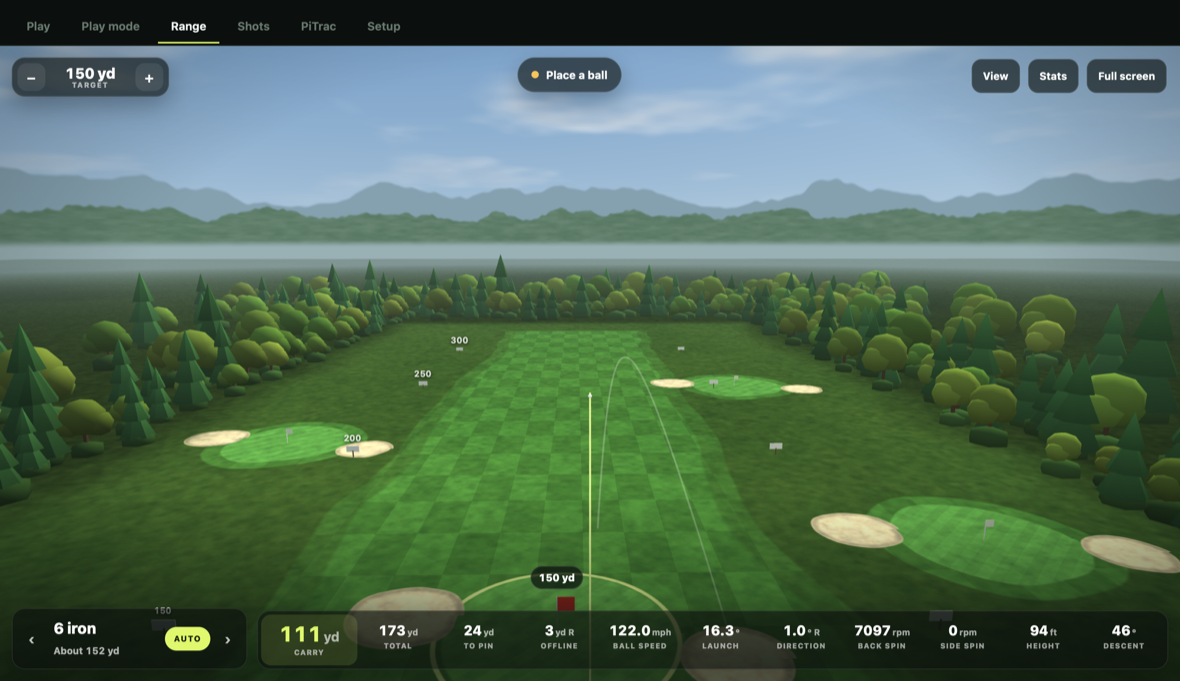
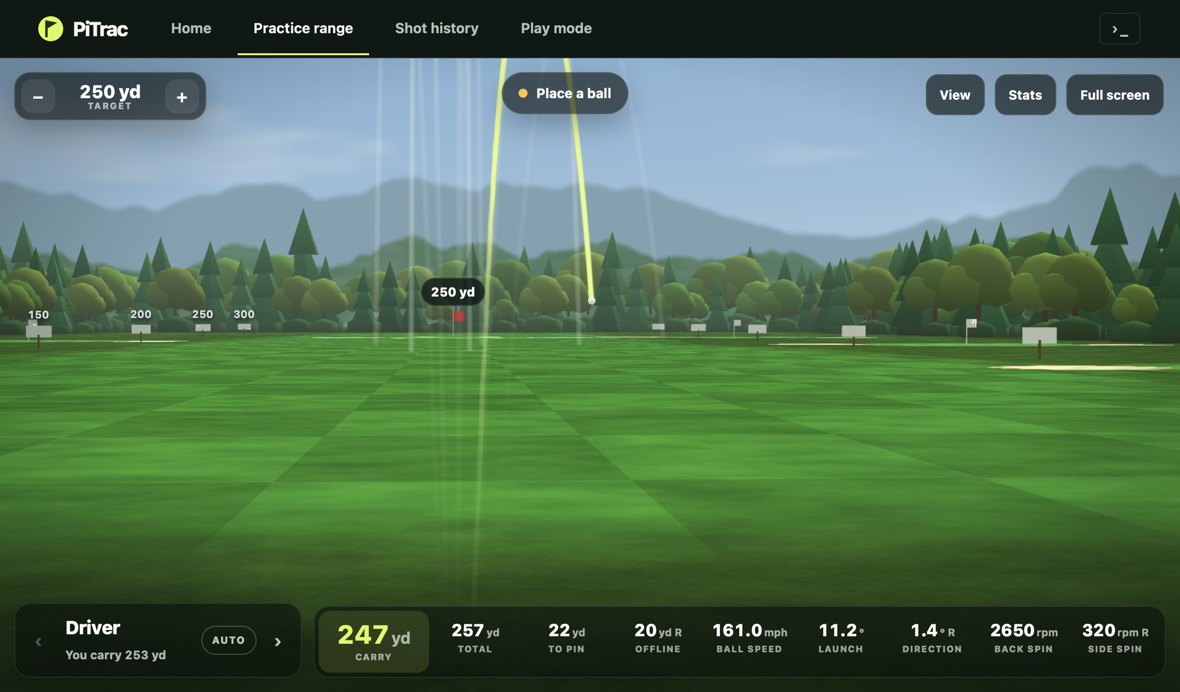
README: set up a stock Raspberry Pi from scratch; refresh screenshots
The Pi section assumed PiTrac was already running. It now goes from a blank
card: writing Raspberry Pi OS (trixie) with Imager, fitting and checking the
cameras (including the upside-down ribbon that stops a camera answering),
building PiTrac at the tested revision with its own build.sh, and installing
Easy-Connect from the release tag's source archive -- plus what to do when
something is not right. The desktop section covers downloads, Update now, and
adding a second computer. Range, shot history and Wi-Fi screenshots are
retaken from the redesigned app.

Step 4 was run verbatim on a fresh Debian 13 arm64 system with a virtual
Wi-Fi radio. That found two installer bugs, fixed here:

- The hotspot check warned that the radio "may not support the setup
  hotspot" exactly when it did: grep -q stopped reading at the first match,
  iw died of SIGPIPE, and pipefail counted that as failure. The Wi-Fi device
  check, which aborts the install, had the same race.
- Without /proc/device-tree/model the shell printed a raw "No such file".

diff --git a/README.md b/README.md
@@ -15,7 +15,7 @@ own application window. It connects the enclosure to your home Wi-Fi, finds it
 automatically, and puts each measured shot on its own range or into GSPro. It also
 includes PiTrac's dashboard, shot history, and a practice range.
 
-A five-step guide walks you through the first setup. If you move the enclosure to another home, you only need to choose the new Wi-Fi network. You do not need to reconfigure PiTrac.
+A short guide walks you through the first setup. If you move the enclosure to another home, you only need to choose the new Wi-Fi network. You do not need to reconfigure PiTrac.
 
 - **Version:** 0.10.6
 - **License:** [MIT](LICENSE)
@@ -38,9 +38,10 @@ A five-step guide walks you through the first setup. If you move the enclosure t
 | **Local Range** | A first-person range with nothing else to buy, open or sign in to. Set a target, and the club is chosen from its distance and how far you hit each one; change it with one key. Every shot shows carry, total, distance to the pin, speed, launch, direction and spin, and the session shows where they finished. Works on macOS and Windows |
 | **OpenGolfSim** | Plays its range and courses on macOS and Windows. It is free and separate: choose **Developer API** as its launch monitor. Each shot shows whether it was played, and where the simulator says it went |
 | **GSPro** | Sends each measured shot to GSPro, which runs on Windows. PiTrac is pointed at Easy-Connect once, when the enclosure is set up, and never again — so a new router, a new address, or a move to another house does not break shot delivery. A **Play mode** page shows which is selected, whether GSPro is answering, and the steps to get it listening |
-| **Setup and system checks** | A five-step guide handles the first setup. The app also checks that the cameras, calibration, software, storage, and other essentials are ready, then explains anything that needs attention |
+| **Setup and system checks** | A short guide handles the first setup. The app also checks that the cameras, calibration, software, storage, and other essentials are ready, then explains anything that needs attention |
 | **Shot history and practice range** | Every shot is saved with the club it was hit with, including shots played through GSPro. Averages build up with or without a simulator. Recent shot images PiTrac has saved are shown separately |
-| **Dashboard and settings** | Includes PiTrac's dashboard and tools to back up, restore, update, or reset the enclosure for a new owner |
+| **Updates** | The app checks for new versions itself and offers **Update now** on its first page. After it restarts it brings the enclosure to the same version by itself, and the enclosure puts the previous version back if a new one does not start |
+| **Dashboard and settings** | Includes PiTrac's dashboard and tools to back up, restore, or reset the enclosure for a new owner |
 
 ### What it looks like
 
@@ -76,52 +77,125 @@ The app finds the enclosure automatically, limits access to computers you have a
 
 ---
 
-## Install on the Raspberry Pi
+## Set up a Raspberry Pi from scratch
 
-PiTrac itself must already be installed and working — see
-[PiTracLM/PiTrac](https://github.com/PiTracLM/PiTrac). If you are starting with
-a blank memory card, install PiTrac first by following
-[PiTracLM's own instructions](https://github.com/PiTracLM/PiTrac).
-It covers the entire process, from flashing the card to running the launch
-monitor.
+This takes a blank memory card to a working enclosure. Steps 1 to 3 are the
+Raspberry Pi and PiTrac itself; step 4 is Easy-Connect. If PiTrac is already
+installed and measuring, go straight to step 4.
 
-This release was built and tested against one PiTrac revision. PiTrac has no
-numbered releases, so check that revision out before building it:
+**You will need:** a Raspberry Pi 5 (this release is tested on one), a 32 GB or
+larger microSD card, a computer to write the card from, and the PiTrac hardware:
+two global-shutter cameras (Raspberry Pi Global Shutter or InnoMaker IMX296),
+two **Raspberry Pi 5 camera cables** (narrow 22-pin end for the Pi, wide 15-pin
+end for the camera) and the rest of PiTrac's build. PiTrac's
+[build guide](https://docs.pitrac.org/build-guide/) covers the hardware.
+
+### 1. Write the memory card
+
+1. Install [Raspberry Pi Imager](https://www.raspberrypi.com/software/) and
+   choose **Raspberry Pi 5**, then **Raspberry Pi OS (64-bit)**. This release is
+   tested on the Debian 13 "trixie" release of it.
+2. When Imager offers to customise the settings, set:
+   - a **username and password** (PiTrac installs for this user),
+   - your **Wi-Fi** network and **country** (Easy-Connect takes over the Wi-Fi
+     later, but this gets the Pi online for the install),
+   - **SSH**, with password authentication.
+3. Write the card, put it in the Pi and switch on. After a minute or two, from
+   your computer:
+
+   ```bash
+   ssh <username>@<hostname>.local
+   ```
+
+   If the name does not answer, use the Pi's IP address from your router's
+   list of devices.
+
+### 2. Connect the cameras and check them
+
+Always **switch the Pi off** before plugging or unplugging a camera cable: it
+only looks for cameras when it starts.
+
+1. Plug the narrow end of each cable into the Pi's **CAM/DISP 0** and
+   **CAM/DISP 1** connectors, and the wide end into each camera. At every end,
+   lift the latch, push the cable fully in and close the latch, with no bare
+   contacts showing.
+2. Switch on and run:
+
+   ```bash
+   rpicam-hello --list-cameras
+   ```
+
+   Both cameras should be listed. If it says **No cameras available!**, a likely
+   cause is a cable fitted upside down at one end, which stops the camera
+   answering at all (`dmesg | grep imx296` then shows `failed ... -121`).
+   Switch off, turn the cable over **at the camera end**, and try again; if
+   that does not help, swap cables and cameras to see which one follows.
+
+### 3. Install PiTrac
+
+Easy-Connect is tested against one PiTrac revision, and PiTrac has no numbered
+releases, so check that revision out before building:
 
 ```bash
+sudo apt update && sudo apt install -y git
+git clone https://github.com/PiTracLM/PiTrac.git
+cd PiTrac
 git checkout 78f1de60fd21398f34d348f19f55e73029bc95f9
+cd packaging
+sudo ./build.sh dev
 ```
 
-A newer PiTrac may work. Easy-Connect checks what PiTrac answers and says so
-plainly when it cannot use it, but PiTrac's own update button can move it past
-what has been tested.
+This builds and installs PiTrac, its camera tools and its dashboard, and takes a
+while. Then follow PiTrac's build guide to **calibrate the strobe and the
+cameras**; PiTrac will not take pictures until the strobe is calibrated. Its
+dashboard is at `http://<hostname>.local:8080`.
 
-Once PiTrac is working, copy the kit's source zip to the Pi, then on the Pi:
+A newer PiTrac may work: Easy-Connect checks what PiTrac answers and says
+plainly when it cannot use it. Avoid PiTrac's own update button, which can move
+it past the tested revision.
+
+### 4. Install Easy-Connect
+
+On the Pi:
 
 ```bash
-unzip "PiTrac Easy-Connect"*source.zip
-cd PiTrac-Easy-Connect
+cd ~
+curl -L -o easy-connect.tar.gz https://github.com/TylerPardun/pitrac-easy-connect/archive/refs/tags/v0.10.6.tar.gz
+tar -xzf easy-connect.tar.gz
+cd pitrac-easy-connect-0.10.6
 sudo bash packaging/pi/install.sh
 ```
 
-If `pitrac.local` does not answer, use the Pi's IP address instead — your
-router lists it. If you have used this Pi before and `ssh` refuses to connect
-after the card was rewritten, run `ssh-keygen -R pitrac.local` and try again.
+With a kit on a USB stick instead, copy its source zip to the Pi and run
+`unzip "PiTrac Easy-Connect"*source.zip`, `cd PiTrac-Easy-Connect` and the same
+`sudo bash packaging/pi/install.sh`.
 
-The installer checks the enclosure, installs and starts Easy-Connect, prepares
-PiTrac to send shots to the app, and prints the **owner card**.
+The installer checks the Pi, installs and starts Easy-Connect, prepares PiTrac
+to send shots to it, and prints the **owner card**:
 
 > **Photograph the owner card.** Its setup Wi-Fi password is generated for that
-> Pi alone, and it is the only way to reconnect if the enclosure cannot reach
-> a network.
+> Pi alone. It is the only way back in if the enclosure cannot reach a network,
+> and it is how a second computer is given access.
 
-Re-run the same installer to upgrade. Your setup, saved Wi-Fi networks,
-connected computers, and camera calibration are all preserved.
+The enclosure takes the stable name printed on the card,
+`pitrac-<device id>.local`. If it cannot join a saved network it makes its own,
+named on the card, so it can always be set up. That is all that is ever done on
+the Pi: from now on **the app updates it**, and nothing needs installing there
+again. (An enclosure set up before 0.10.6 needs this step run once more to
+receive updates from the app; the app says so when it meets one.)
 
-The service assigns each enclosure the stable hostname printed in its identity,
-`pitrac-<device id>.local`, and publishes `_pitrac._tcp` through Avahi. UDP
-discovery remains the primary search path and keeps working when mDNS is
-unavailable.
+If `ssh` refuses to connect after a card was rewritten, run
+`ssh-keygen -R <hostname>.local` and try again.
+
+### When something is not right
+
+| What you see | What to do |
+|---|---|
+| **No cameras available!** or *0 of 2 cameras detected* | Switch off, turn the cable over at the camera end, switch on. The app's camera check names the cause it finds |
+| *PiTrac does not offer /api/sims* | PiTrac is older than the tested revision; repeat step 3 |
+| PiTrac's camera test says the strobe needs calibrating | Calibrate the strobe in PiTrac's dashboard first |
+| The app says **PiTrac needs a one-time reinstall** | Run step 4 again; settings and pairings are kept |
+| The app cannot find the enclosure | Check it has power; give it two minutes; on a new network it makes its own Wi-Fi, named on the owner card |
 
 ---
 
@@ -136,6 +210,10 @@ blank owner card, and a short `READ ME FIRST.txt`.
 | Mac | `PiTrac Easy-Connect <version> (Mac ...).dmg`. Drag the app into Applications |
 | Windows 11 | `PiTrac Easy-Connect <version> (Windows).exe` |
 
+Download them from the [latest release](https://github.com/TylerPardun/pitrac-easy-connect/releases/latest)
+(the Mac `.zip` for Apple silicon or Intel, or the Windows `-setup.exe`), or
+take them from a kit.
+
 Neither is signed with a paid certificate, so each system asks the first time:
 
 | Computer | What to do |
@@ -143,8 +221,17 @@ Neither is signed with a paid certificate, so each system asks the first time:
 | Mac | Open it once, then **System Settings → Privacy & Security → Open Anyway** |
 | Windows | **More info**, then **Run anyway** |
 
-Installing a later kit over the top keeps pairing, Wi-Fi, calibration, settings,
-and shot history. Use the same kit for the Pi and for every computer.
+**Updates.** When a new version is out, the app says so at the top of its first
+page. Press **Update now**: it installs, restarts, and then brings the enclosure
+to the same version by itself. Pairing, Wi-Fi, calibration, settings, and shot
+history are kept. Copies of Easy-Connect before 0.10.6 cannot update
+themselves; install 0.10.6 by hand once.
+
+**More than one computer.** The first computer to connect is trusted
+automatically. Any other computer asks for the password on the owner card, or
+can be let in from a computer that is already trusted (**Pair another
+computer**). The enclosure talks to one computer at a time and remembers the
+others; **Connect here** moves it to the one in front of you.
 
 If macOS cannot find PiTrac, open **System Settings → Privacy & Security →
 Local Network** and allow PiTrac Easy-Connect, then search again.
